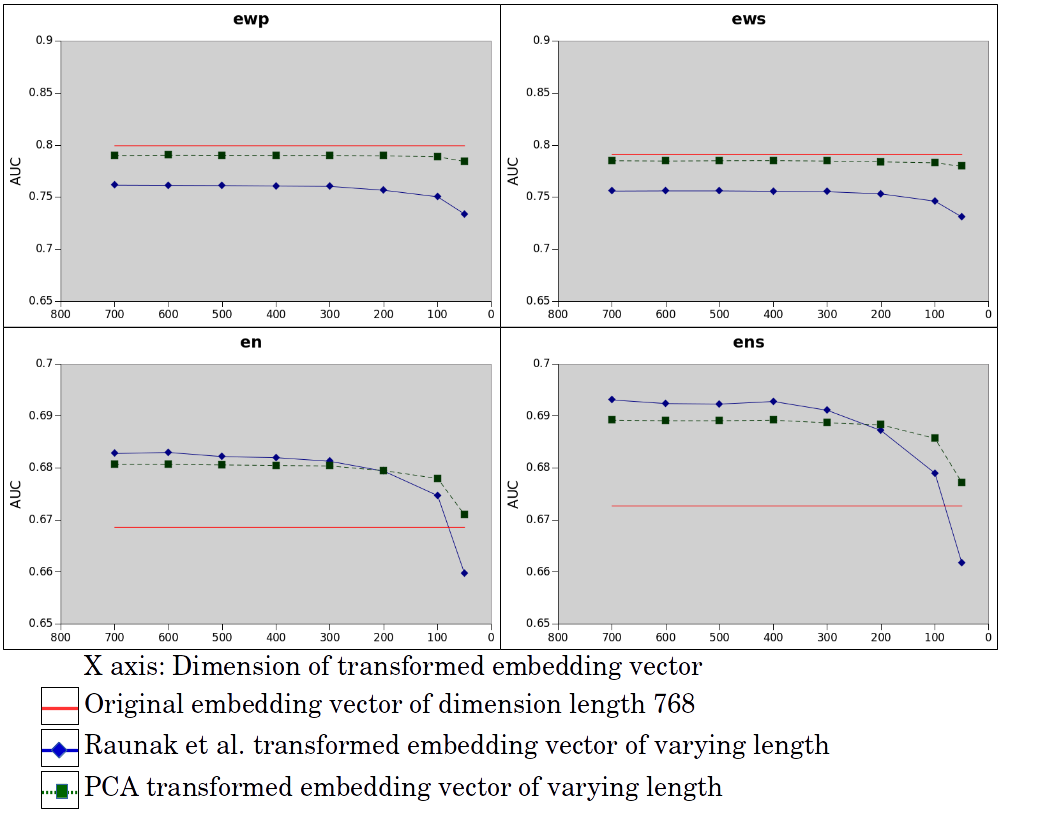
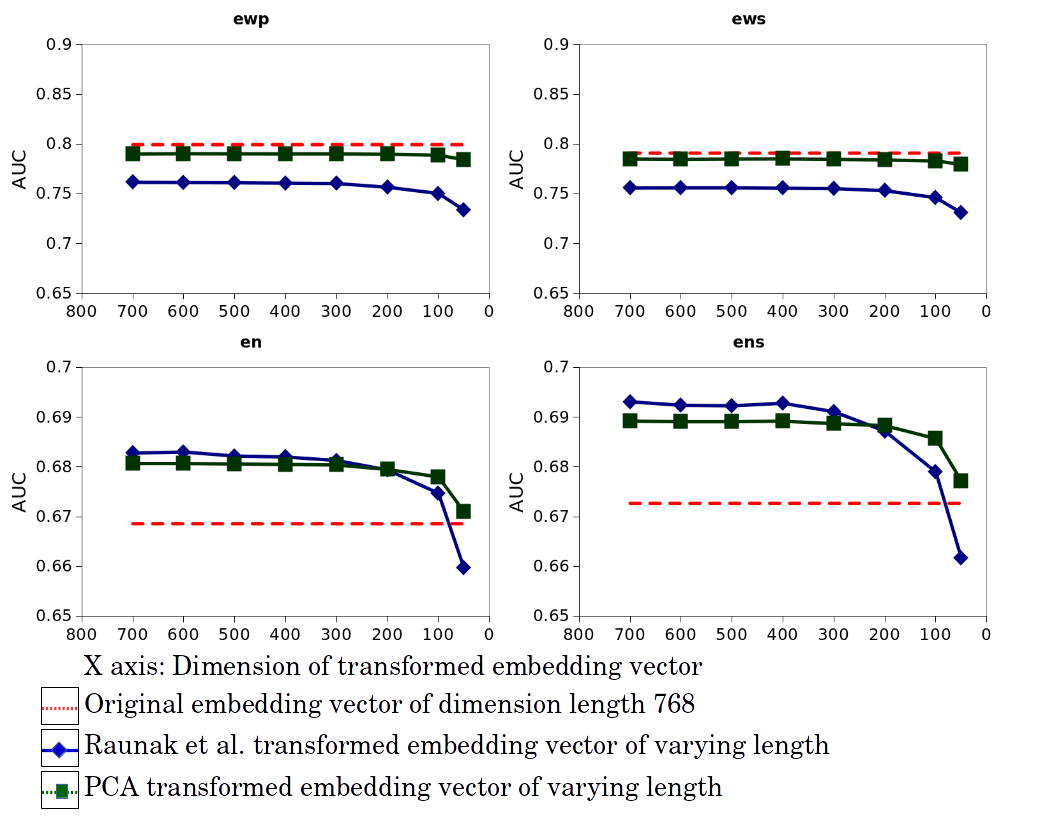
added remaining results and fixed figure 4

diff --git a/evaluation.tex b/evaluation.tex
@@ -1,9 +1,7 @@
-\subsection{Experimental settings} The central theme of our work is to explore an efficient way to make use of embeddings and transformer models to represent passage-length texts. Our experimental setting evaluates to which extent such a passage representations is useful for solving passages clustering in an open-domain IR context. \ld{I would reword this: "We chose sub-topic clustering of passages as our evaluation problem because traditional IR similarity metrics have been shown to be ineffective in modeling the fine-grained similarity between passages from the same broad topic and hence is considered to be a difficult IR problem." - see ticket \url{https://gitlab.cs.unh.edu/trema/papers/cikm2020-subtopic-clustering/issues/4}} However as mentioned before, we train our models to learn query-dependent pairwise distances between passages first, and then use the pairwise distances for clustering. We describe our clustering pipeline in the following:
+\subsection{Experimental settings} The central theme of our work is to explore an efficient way to make use of embeddings and Transformer models to represent passage-length texts. We evaluate in an open-domain IR context, to which extend our approach for sub-topic clustering of passages can capture the fine-grained nuances in sub-topics among passages retrieved for an overarching topic. However as mentioned before, we train our models to learn pairwise distances between passages first, and then use the pairwise distances for clustering. We describe our clustering pipeline in the following:
 \begin{itemize}
-    \item \textbf{Step 1: \ld{I added a few words, and maybe made the name too long, please fix if necessary} Query-dependent binary classification  into same/different} We train our model phrasing the model of query-dependent decision into same/different sections as a binary classification problem. Given a pair of passages $p_1, p_2$  \ld{... and a query...} from an Wikipedia article, we have to decide whether they should share the same section in that article or not. We use the TRECCAR-Train as our training data.
-    \item \textbf{Step 2: Pairwise distances \ld{1 is also pairwise distances, maybe you want to call this ``Supervised Distance Combination Learning'' ?}} 
-    \ld{I don't know what you are trying to say, I suspect you are training a combination of different similarity metrics (a la Step 1). I would phrase this as follows: ``Since we have different methods for estimating a query-independent as well as  query-specific pair-wise similarity metrics (some supervised, some unsupervised like TF-IDF), we learn a model combination.''}
-    Using the trained model from previous step or other unsupervised models, we calculate pairwise distances between all passage pairs which we want to cluster. If a passage embedding model is being trained (e.g., ews or ewp), then a distance function (cosine distance or CATS) is used to generate passage similarity scores between pairs of passage embedding vectors. For CATS, it is trained again for binary classification task using TRECCAR-by1train dataset.
+    \item \textbf{Step 1: Binary classification into same/different sections} First, we train our supervised models to solve a binary classification problem. Given a pair of passages $p_1, p_2$ from an Wikipedia article, the model has to decide whether they should share the same section in that article or not. We use the TRECCAR-Train as our training data.
+    \item \textbf{Step 2: Extract pairwise distances between passage pairs} Using the trained model from previous step or other unsupervised models, we calculate pairwise distances between all passage pairs which we want to cluster. If a passage embedding model is being trained (e.g., ews or ewp) in Step 1, then a distance function (cosine distance or CATS) is used to generate passage similarity scores between pairs of passage embedding vectors. For CATS, it is trained again for binary classification task using TRECCAR-by1train dataset.
     \item \textbf{Step 3: Subtopic clustering} Given a set of passages $P$ about a topic $T$, we have to generate $k$ clusters $c_1 .. c_k$ of passages, in such a way that each cluster $c_i$ coincides with a specific sub-topic of $T$. Using the pre-computed pairwise distances as input, we use Hierarchical Agglomerative clustering with average linkage to obtain clusters of passages from same article.
 \end{itemize}
 
@@ -16,17 +14,17 @@ The training and evaluation phase of the clustering pipeline is depicted in Figu
 \end{figure}
 
 \subsection{Training and evaluation data} 
-We use several parts of a publicly available TREC Complex Answer Retrieval dataset for training and evaluating our models: benchmarkY1-train.v2.0 (trec y1 train), benchmarkY1-test (trec y1 test), benchmarkY2test-auto-manual-qrels (trec y2 test), and train.v2.0 (trec train) \ld{this enumeration needs a bit more explanation}. The dataset consists of a large corpus of text passages extracted from Wikipedia and text book articles \ld{I deleted TQA, not sure if you use the term later}. One of the target task described by the organizers of the CAR challenge  is a passage retrieval task where we have to retrieve relevant passages from the corpus for complex queries. The query set is derived from concatenating section headings of an article with its article title. The automatic benchmark will, for such queries, only consider passages as relevant if they originate from the corresponding section of the article. This relevance information is used to obtain the hierarchical structure of each article in the dataset; these are used as input to our training data generation method depicted in Figure \ref{fig:conv}. \ld{this needs to also be explained in prose} The process produces passage similarity data for training the query-dependent binary classification task and is used in step 1 (and step 2 for CATS) of our subtopic clustering pipeline.
+We use several parts of a publicly available TREC Complex Answer Retrieval dataset \cite{dietz2017trec} for training and evaluating our models: benchmarkY1-train.v2.0 (trec y1 train), benchmarkY1-test (trec y1 test), benchmarkY2test-auto-manual-qrels (trec y2 test), and train.v2.0 (trec train). The dataset consists of a large corpus of text passages extracted from Wikipedia and text book articles. One of the target task described by the organizers of the CAR challenge  is a passage retrieval task where we have to retrieve relevant passages from the corpus for complex queries. The query set is derived from concatenating section headings of an article with its article title. The automatic benchmark will, for such queries, only consider passages as relevant if they originate from the corresponding section of the article. This relevance information is used to obtain the hierarchical structure of each article in the dataset; these are used as input to our training data generation method depicted in Figure \ref{fig:conv}. \ld{this needs to also be explained in prose} The process produces passage similarity data for training the query-dependent binary classification task and is used in step 1 (and step 2 for CATS) of our subtopic clustering pipeline.
 
 %Each part has ground truth information contained in qrels files which inform about relevance of passages to different hierarchical sections of an Wikipedia article. For trec y1 parts, it has two different levels of hierarchical relevance: hierarchical qrels considers each section in Wikipedia articles as different topics and maps relevant passages accordingly. Toplevel qrels does not consider deeper level sections and maps all passages from deeper level sections to the section on the topmost level of the section hierarchy.
 
-\subsubsection{Training data} Using the technique depicted in Figure \ref{fig:conv}, we convert subset of trec train and trec y1 train dataset from TRECCAR to our training sets \textbf{Train-TRECCAR} and \textbf{by1train-TRECCAR} respectively. We also generate two \ld{make clear that the query is separate from the triplet, because earlier you talked about tuples (u,v,w), where one was the query} triplet dataset to fine-tune \ld{I would say a model similar to the one from} Dor et al. version of text embedding model. The dataset \textbf{Train-triplet-psg} contains samples of passage triplets as $(p_a, p_s, p_d)$ where $p_a$ and $p_s$ are similar and $p_d$ is dissimilar according to Train-TRECCAR. \textbf{Train-triplet-sent} is constructed similar to Train-triplet-psg except we take a random sentence from each passage in a triplet instead of the whole passage text. \ld{make sure the math notation is in line with what was used earlier.}
+\subsubsection{Training data} Using the technique depicted in Figure \ref{fig:conv}, we convert subset of trec train and trec y1 train dataset from TRECCAR to our training sets \textbf{Train-TRECCAR} and \textbf{by1train-TRECCAR} respectively. We also generate two triplet dataset to fine-tune text embedding models similar to the model by Dor et al. . The dataset \textbf{Train-triplet-psg} contains samples of passage triplets as $(p_a, p_s, p_d)$ where $p_a$ and $p_s$ are similar and $p_d$ is dissimilar according to Train-TRECCAR. \textbf{Train-triplet-sent} is constructed similar to Train-triplet-psg except we take a random sentence from each passage in a triplet instead of the whole passage text.
 
-\subsubsection{Evaluation data} We evaluate our models on both the query-specific binary classification task and the clustering task. The former task is evaluated on \textbf{Y1 test} and \textbf{Y2 test}, converted from trec y1 test and trec y2 test, similar to \textbf{Train-TRECCAR} \ld{For an outsider it is difficult to follow what the difference is between "Y1 test" and "trec y1 test". Maybe you can simplify the terminology?}. For the clustering task, we use the section-passage relevance information provided in the automatic ground truth of TREC CAR dataset to construct the clustering ground truth of true passage clusters in articles. However, based on topical diversity inside a cluster, we construct two different clustering ground truths:
+\subsubsection{Evaluation data} We evaluate our models on both the query-specific binary classification task and the clustering task. The former task is evaluated on \textbf{Y1 test} and \textbf{Y2 test}, converted from trec y1 test and trec y2 test, similar to \textbf{Train-TRECCAR}. For the clustering task, we use the section-passage relevance information provided in the automatic ground truth of TREC CAR dataset to construct the clustering ground truth of true passage clusters in articles. However, based on topical diversity inside a cluster, we construct two different clustering ground truths:
 
 \begin{itemize}
-    \item \textit{Lenient} We consider all passages under the same top-level section to be a single cluster. For example: passages relevant for \textit{Amur Leopard/Threats}, \textit{Amur Leopard/Threats/Forest degradation}, and \textit{Amur Leopard/Threats/Poaching} are considered part of same \textit{"Threat"} cluster.
-    \item \textit{Hierarchical} We consider passages under different hierarchical sections to be separate clusters. In previous example, we would form three distinct clusters (\textit{"Threats", "Forest degradation",} and \textit{"Poaching"}) for the \textit{"Amur Leopard"} article.
+    \item \textit{Lenient (ln)} We consider all passages under the same top-level section to be a single cluster. For example: passages relevant for \textit{Amur Leopard/Threats}, \textit{Amur Leopard/Threats/Forest degradation}, and \textit{Amur Leopard/Threats/Poaching} are considered part of same \textit{"Threat"} cluster.
+    \item \textit{Hierarchical (hs)} We consider passages under different hierarchical sections to be separate clusters. In previous example, we would form three distinct clusters (\textit{"Threats", "Forest degradation",} and \textit{"Poaching"}) for the \textit{"Amur Leopard"} article.
 \end{itemize}
 
 \subsection{Experimental models} We experiment with the following models:
@@ -36,31 +34,49 @@ We use several parts of a publicly available TREC Complex Answer Retrieval datas
     \begin{itemize}
         \item \textit{en:} BERT-base model with mean-tokens pooling trained on SNLI and MultiNLI dataset.
         \item \textit{ens:} Same as en but first fine-tuned on the AllNLI datasent, then on train set of STS benchmark.
-        \item \textit{ews:} Version of Dor et al. text embeddings which are fine-tuned on triplets generated from Wikipedia sections. However to prevent training data leakage, we fine-tuned the model using sentence triplets generated from Train-TRECCAR (called Train-triplet-sent), instead of the training dataset provided by the authors \ld{if you mean me, than call me "track organizer" of you mean Dor, then explain why you are not using their models (e.g., because their application differs)}.
+        \item \textit{ews:} Version of Dor et al. text embeddings which are fine-tuned on triplets generated from Wikipedia sections. However to prevent training data leakage, we fine-tuned the model using sentence triplets generated from Train-TRECCAR (called Train-triplet-sent), instead of the training dataset provided by the authors.
         \item \textit{ewp:} Same as ews but the model is trained on triples of passages instead of sentences (called Train-triplet-psg) from Train-TRECCAR.
     \end{itemize}
     Each of the models above are used to generate passage embeddings in two ways: \textit{I. } By using the whole passage text as a single long input sequence and \textit{II. } By averaging sentence embeddings generated for each sentence of a passage. 
     \item \textbf{CATS} We train our CATS model discussed in Section \ref{sec:cats}, for each of the passage embedding methods using by1train-TRECCAR dataset. We use the embedding vector of the article title as the as the query-specific context information for CATS, as intended by the CAR track organizers.
-    \item \ld{add LDA, and add tf-idf cosine similarity, and BM25}
+    \item We use three unsupervised baseline methods: bm25, tfidf, and LDA topic model. To calculate similarity score between a pair of passages, \textbf{i. bm25:} we take the average of two BM25 similarity scores calculated using each passage in the pair as query and the other as document. \textbf{ii. tfidf:} we take the cosine similarity score of the TFIDF vectors representing the passages in the pair. \textbf{iii. LDA:} we take the KL-divergence score between the topic distribution of the passages in the pair, estimated using LDA topic model.
 \end{itemize}
 
-We refer to all passage embedding models by the following simple nomenclature: \texttt{EMB-GEN-DIST} where $EMB$ denotes the embedding model used ($en/ens/ews/ewp$), $GEN$ denotes whether we use the whole passage text or individual sentences as input while generating the embeddings ($psg/sent$) and finally $DIST$ denotes which type of distance function we use to obtain the similarity scores between two passage embedding vectors ($cos/CATS$).
+\begin{table}[t]
+\centering
+%\ra{1.3}
+\caption{Training data}
+\label{tab:dat}
+\begin{tabular}{@{}lrr@{}}\toprule
+Training data & Generated from & Used to train \\\midrule
+Train-TRECCAR & trec train & bertc, bertu \\
+by1train-TRECCAR & trec y1 train & e*-(psg/sent)-CATS \\
+Train-triplet-psg & trec train & ewp \\
+Train-triplet-sent & trec train & ews \\
+\bottomrule
+\end{tabular}
+\caption*{e*: ews/ewp/en/ens \\}
+%\vspace{-3ex}
+\end{table}
 
-\subsection{Subtopic clustering} For each article in \textbf{Y1 test} and \textbf{Y2 test}, we cluster all passages from the article using our clustering pipeline discussed before. The clustering results are evaluated using mean Adjusted RAND index \ld{I think we should give the equation of ARI, or at least say that it is precision/F1 on whether two passages were assigned correctly to the same/different subtopics} across all the articles in each dataset. For Y1 test, we evaluate the clusters against both the \textit{lenient} and \textit{hierarchical} clustering ground truth and for Y2 test, we only evaluate on \textit{lenient} ground truth. For each case, we also evaluate two scenarios: the true number of clusters for each article is i) provided ii) not provided, so a fixed cluster number is predetermined. The supervised methods were actually trained on binary classification task, so we also report the binary classification evaluation scores in terms of AUC score (Area under the receiver operating characteristics curve). Please refer to Table \ref{tab:by1} for the evaluation results.
+We refer to all passage embedding models by the following simple nomenclature: \texttt{EMB-GEN-DIST} where $EMB$ denotes the embedding model used ($en/ens/ews/ewp$), $GEN$ denotes whether we use the whole passage text or individual sentences as input while generating the embeddings ($psg/sent$) and finally $DIST$ denotes which type of distance function we use to obtain the similarity scores between two passage embedding vectors ($cos/CATS$). Table \ref{tab:dat} shows the training datasets used to train different models.
+
+\subsection{Subtopic clustering} For each article in \textbf{Y1 test} and \textbf{Y2 test}, we cluster all passages from the article using our clustering pipeline discussed before. The clustering results are evaluated using mean Adjusted RAND index \cite{hubert1985comparing}, which measures the agreement between the resulting cluster with the true cluster from ground truth, across all the articles in each dataset. For evaluation purposes we pretend to know the right number of sections of an article, referred here as $k$. In real-world applications, we find that most articles have a typical number of sections, which we would use to determine $k$. Alternatively, work on Dirichlet processes are an avenue of learning and predicting the right number of subtopics along with the data \cite{griffiths2004hierarchical, blei2011distance}. Based on $k$, we evaluate two scenarios: the true number of clusters for each article is i) provided ($k=$true) ii) not provided, so a fixed cluster number is predetermined (e.g. $k=$6). For each case, we evaluate the clusters against both the \textit{lenient} and \textit{hierarchical} clustering ground truth for Y1 test. For Y2 test, we only evaluate on \textit{lenient} ground truth. The supervised methods were actually trained on binary classification task, so we also report the binary classification evaluation scores in terms of AUC score (Area under the receiver operating characteristics curve). Please refer to Table \ref{tab:by1} for the evaluation results.
 
 \begin{table*}[t]
 \centering
 %\ra{1.3}
-\caption{\ld{I love the table. Can you mark which method is "ours"?}Task performance measured in terms of macro averaged evaluation score and paired ttest with respect to $bertu$ with $\alpha = 0.05$}
+\caption{Task performance measured in terms of macro averaged evaluation score and paired ttest with respect to $bertu$ with $\alpha = 0.05$}
 \label{tab:by1}
 \begin{tabular}{@{}lrrrrrrrrr@{}}\toprule
 & \multicolumn{5}{c}{Y1 test} && \multicolumn{3}{c}{Y2 test}  \\
 \cmidrule(r){2-6}
 \cmidrule(r){8-10}
 %\cmidrule{2-6} 
-Methods & AUC & hq ARI (k=6) & hq ARI (k=true) & ln ARI (k=6) & ln ARI (k=true) && AUC & ARI (k=8) & ARI (k=true) \\\midrule
+Methods & AUC & hs ARI (k=6) & hs ARI (k=true) & ln ARI (k=6) & ln ARI (k=true) && AUC & ARI (k=8) & ARI (k=true) \\\midrule
 bm25 & 0.7109 & 0.0920 & 0.1771 & 0.1227 & 0.1451 && 0.6301 & 0.1571 & 0.1318 \\
-LDA & & & & & && & & \\
+tfidf & 0.6776 & 0.0695 & 0.1145 & 0.0664 & 0.0703 && 0.6082 & 0.0533 & 0.0647 \\
+LDA & 0.4385 & 0.0025 & 0.0108 & 0.0040 & 0.0087 && 0.4618 & 0.0160 & 0.0132 \\
 bertc & 0.7771 & 0.1373 & 0.2300 & 0.1797 & 0.2078 && 0.6920 & 0.2275 & 0.2368 \\ 
 bertu & 0.7778 & 0.1303 & 0.2140 & 0.1789 & 0.1912 && 0.6876 & 0.1824 & 0.1821 \\\midrule
 ews-psg-cos & 0.7910 & 0.1451 & 0.2085 & $\blacktriangle$ 0.2302 & $\blacktriangle$ 0.2397 && $\blacktriangle$ \textbf{0.7194} & $\blacktriangle$ 0.2261 & $\blacktriangle$ 0.2422 \\ 
@@ -82,7 +98,7 @@ ens-sent-CATS & $\blacktriangledown$ 0.7082 & 0.1041 & $\blacktriangledown$ 0.14
 \bottomrule
 \end{tabular}
 \caption*{Significantly higher $\blacktriangle$ or lower $\blacktriangledown$ than $bertu$ according to paired t-test \\
-hq: \ld{why is it hq and not hc? ist is because of hierarchical queries how about hierarchical secions (hs)? }  evaluated against hierarchical clustering ground truth, ln: lenient clustering ground truth\\
+hs: evaluated against hierarchical clustering ground truth, ln: lenient clustering ground truth\\
 k: number of clusters, k=true: original number of clusters in each article}
 %\vspace{-3ex}
 \end{table*}
@@ -94,8 +110,6 @@ k: number of clusters, k=true: original number of clusters in each article}
     \item The CATS variant of $en, ens$ improves remarkably over their cosine similarity versions. In some cases the improvement is over $100$\%. For example: en-psg-CATS improves about $115$\% over en-psg-cos in terms of mean ARI when evaluated against lenient clustering ground truth of Y1 test with fixed number of clusters (column ln ARI(k=6)).
     \item Using the average sentence vector (sent) to represent passages is observed to produce worse outcome when compared to whole passage embedding (psg) for $ewp, ews$. For example: ews-sent-cos performs about $7$\% worse than ews-psg-cos in terms of AUC score for Y1 test. However, in most cases we observe slight performance increase for $en, ens$ when average sentence vector is used.
 \end{itemize}
-
-\ld{awesome findings! I actually like that you formatted it with bullet points.}
 
 \subsubsection{Significance test} We have seen from Table \ref{tab:by1} that our proposed CATS method improves all four passage embedding methods explored here. Now to investigate whether the improvement is statistically significant, we conduct paired ttest between each CATS version of passage embedding method and its cosine version. We choose $\alpha = 0.05$ for this study. For brevity, we consider three different cases: Y1 test with hierarchical and lenient ground truth, and Y2 test, both with true number of clusters provided. We report the obtained p-value from the experiments in Table \ref{tab:sigt}. The results confirm that all improvements due to CATS are statistically significant for Y1 test dataset. Whereas for Y2 test, improvements for $en, ens$ methods are statistically significant.
 
@@ -111,7 +125,7 @@ k: number of clusters, k=true: original number of clusters in each article}
 && \multicolumn{2}{c}{Y1 test} & Y2 test  \\
 \cmidrule(r){3-4}
 \cmidrule(r){5-5}
-Method 1 & Method 2 & hq k=t & ln k=t & k=t \\\midrule
+Method 1 & Method 2 & hs k=t & ln k=t & k=t \\\midrule
 ews-psg-cos & ews-psg-CATS & 0.0386 & 0.0138 & 0.5887 \\ 
 ewp-psg-cos & ewp-psg-CATS & 0.0007 & 0.023 & 0.7462 \\ 
 en-psg-cos & en-psg-CATS & 0.0002 & <0.0001 & 0.0174 \\ 
@@ -122,7 +136,7 @@ en-sent-cos & en-sent-CATS & 0.0364 & <0.0001 & 0.0684 \\
 ens-sent-cos & ens-sent-CATS & 0.0001 & <0.0001 & 0.0016 \\
 \bottomrule
 \end{tabular}
-\caption*{hq: evaluated against hierarchical clustering ground truth, ln: lenient clustering ground truth\\
+\caption*{hs: evaluated against hierarchical clustering ground truth, ln: lenient clustering ground truth\\
 k: number of clusters, k=true: original number of clusters in each article}
 %\vspace{-3ex}
 \end{table}
@@ -140,16 +154,16 @@ One important aspect to note here is that the adjusted RAND index score has non-
 & \multicolumn{2}{c}{Y1 test} & Y2 test  \\
 \cmidrule(r){2-3}
 \cmidrule(r){4-4}
-Combination & hq k=t & ln k=t & k=t \\\midrule
-1. v',w' & 0.0207 & 0.0382 &  \\ 
-2. v',w',(v'-w') & 0.2198 & 0.2523 & \\
-3. u',v',w' & 0.0328 & 0.0415 & \\
-4. u',v',w',(v'-w') & 0.2198 & 0.2690 & \\
-5. u',v',w',(v'-u'),(w'-u') & 0.0359 & 0.0447 & \\
-6. v',w',(v'-u'),(w'-u') & 0.0290 & 0.0434 & \\
-7. v',w',(v'-w'),(v'-u'),(w'-u') & 0.2429 & 0.2795 & \\
-8. (v'-w'),(v'-u'),(w'-u') & 0.2193 & 0.2639 & \\
-9. (v'-u'),(w'-u') & 0.0281 & 0.0469 & \\
+Combination & hs k=t & ln k=t & k=t \\\midrule
+1. v',w' & 0.0207 & 0.0382 & 0.0151 \\ 
+2. v',w',(v'-w') & 0.2198 & 0.2523 & 0.2349 \\
+3. u',v',w' & 0.0328 & 0.0415 & 0.0272 \\
+4. u',v',w',(v'-w') & 0.2198 & 0.2690 & 0.2150 \\
+5. u',v',w',(v'-u'),(w'-u') & 0.0359 & 0.0447 & 0.0241 \\
+6. v',w',(v'-u'),(w'-u') & 0.0290 & 0.0434 & 0.0239 \\
+7. v',w',(v'-w'),(v'-u'),(w'-u') & 0.2429 & 0.2795 & 0.2474 \\
+8. (v'-w'),(v'-u'),(w'-u') & 0.2193 & 0.2639 & 0.2441 \\
+9. (v'-u'),(w'-u') & 0.0281 & 0.0469 & 0.0235 \\
 \textbf{10. u',v',w',(v'-w'),(v'-u'),(w'-u')} & 0.2380 & 0.2772 & 0.2319 \\
 \bottomrule
 \end{tabular}
@@ -192,9 +206,9 @@ The previous example is a case of false negative which is rectified by the CATS 
 It is evident that these two passages share topics such as \textit{"fishing"}, \textit{"sport"}, and consequently influence non-CATS method such as $ewp-psg-cos$ to incorrectly assign high similarity score. However, when we are aware that both these passages are taken from an article titled \textit{"Recreational fishing"}, then other less overt topics become more important in deciding their subtopic similarity. As there are little topical overlap other than the central context, $ewp-psg-cos$ assigns low similarity score for the pair. Indeed these two passages are taken from different subtopics, \textit{"History"} and \textit{"Fish logs"} respectively. 
 
 \subsection{Effect of Post-Processing and Dimensionality Reduction}
-Mu et al. had shown that much of the variance of popular word embedding vectors are explained by only a small subset of vector dimensions. In their study, they develop a simple post-processing technique which made the embeddings more effective by eliminating those dominating embedding dimensions, as opposed to eliminating the weakest dimensions in case of typical dimensionality reduction techniques. According to their findings, their technique can be used to initialize embedding vectors for supervised downstream tasks. However, when used with our best performing CATS variant $q-ewp$, it does not yield any significant improvement.
+Mu et al. \cite{mu2017all} had shown that much of the variance of popular word embedding vectors are explained by only a small subset of vector dimensions. In their study, they develop a simple post-processing technique which made the embeddings more effective by eliminating those dominating embedding dimensions, as opposed to eliminating the weakest dimensions in case of typical dimensionality reduction techniques. According to their findings, their technique can be used to initialize embedding vectors for supervised downstream tasks. However, when used with our best performing CATS variant $q-ewp$, it does not yield any significant improvement.
 
-All passage embeddings used for our evaluation are of length 768. Reducing the dimensionality of embeddings without significantly hurting the performance, benefit memory-constrained downstream applications. Raunak et al. propose a dimensionality reduction technique that combines PCA with Mu et al. post-processing algorithm, suitable for word embeddings. We explore the applicability of their technique to passage embeddings in comparison to simple PCA. Our findings, presented in Figure \ref{fig:dimred}, lead to interesting insights. As expected, for $ewp$ and $ews$, reducing dimensionality using normal PCA degrades performance in terms of AUC score for binary classification task. However, the performance degrades even further when we apply the technique by Raunak et al. On the other hand, for $en$ and $ens$, reduced embedding vectors produce improved results compared to the original vector. More interestingly, the improvement sustains even if the embedding size is reduced to only 100. Our conclusions from this observation are as follows:
+All passage embeddings used for our evaluation are of length 768. Reducing the dimensionality of embeddings without significantly hurting the performance, benefit memory-constrained downstream applications. Raunak et al. \cite{raunak2019effective} propose a dimensionality reduction technique that combines PCA with Mu et al. post-processing algorithm, suitable for word embeddings. We explore the applicability of their technique to passage embeddings in comparison to simple PCA. Our findings, presented in Figure \ref{fig:dimred}, lead to interesting insights. As expected, for $ewp$ and $ews$, reducing dimensionality using normal PCA degrades performance in terms of AUC score for binary classification task. However, the performance degrades even further when we apply the technique by Raunak et al. On the other hand, for $en$ and $ens$, reduced embedding vectors produce improved results compared to the original vector. More interestingly, the improvement sustains even if the embedding size is reduced to only 100. Our conclusions from this observation are as follows:
 \begin{itemize}
     \item The key difference between $en, ens$ and $ewp, ews$ is the incorporation of Wikipedia section information for the later two. The dimensionality reduction technique by Raunak et al. eliminates dominating dimensions similar to Mu et al. and eliminates weakest dimensions using PCA. As our evaluation results show, applying Raunak et al. method hurts the performance much more than a simple PCA dimensionality reduction. This suggests that important Wikipedia hierarchy information is concentrated in dominant dimensions of these passage embeddings and when those dimensions are eliminated, the performance degradation is much severe than simple PCA.
     \item For $en, ens$, dimensionality reduction results in improved performance and the improvement is slightly higher for Raunak et al. This finding aligns with the work of Mu et al. and Raunak et al. with word embeddings. Unlike $ewp, ews$, these embeddings do not have essential information concentrated in specific sets of dimensions and hence do not lose important insights upon removal of dominant or weak dimensions. In fact they benefit from denoising nature of these post-processing techniques.

diff --git a/approach.tex b/approach.tex
@@ -14,18 +14,18 @@ Hence we feel, the problem of subtopic clustering requires a generic solution wh
 
 We focus on Step 1 to develop a suitable pairwise similarity metric between passages.
 
-\subsection{Transformer embeddings} In their Sentence-BERT work, authors generate fixed length embeddings for a given word sequence. Dor et al. \cite{dor2018learning} propose a triplet fine-tuning technique which trains the embeddings to be better suited in predicting similarity of sentence pairs based on their likeliness of sharing same section in an Wikipedia article. Each training example consists of one anchor sentence, one similar sentence which is from same section than the anchor and one dissimilar sentence which is from different section than anchor. Using each of these approaches, we obtain fixed length embeddings for passages using tokenized passages as input token sequence. A straight-forward approach for the subtopic clustering would use cosine similarity between these fixed-length vectors as to quantify the pairwise similarity between passages. The similarity scores are used in  a clustering algorithm to obtain subtopic clusters. Note that, transformer models have a maximum input length. So for longer passages tokens beyond the maximum length are truncated.
+\subsection{Transformer embeddings} In their Sentence-BERT work, authors generate fixed length embeddings for a given word sequence. Dor et al. \cite{dor2018learning} propose a triplet fine-tuning technique which trains the embeddings to be better suited in predicting similarity of sentence pairs based on their likeliness of sharing same section (subtopic) in an Wikipedia article about a topic. Each training example consists of one anchor sentence, one similar sentence which is from same section than the anchor and one dissimilar sentence which is from different section than anchor. Using each of these approaches, we obtain fixed length embeddings for passages using tokenized passages as input token sequence. A straight-forward approach for the subtopic clustering would use cosine similarity between these fixed-length vectors as to quantify the pairwise similarity between passages. The similarity scores are used in  a clustering algorithm to obtain subtopic clusters. Note that, transformer models have a maximum input length. So for longer passages tokens beyond the maximum length are truncated.
 
-Although the triples data and target task proposed by Dor et al. may help detect a sentence pair from from the same subtopic (i.e., same section of Wikipedia), we hypothesize that without certain modifications specific to subtopic clustering, we obtain sub-optimal results. There are several reasons behind our hypothesis: 
+Although the triples data and target task proposed by Dor et al. may help detect a sentence pair from the same subtopic (i.e., same section of Wikipedia), we hypothesize that without certain modifications specific to subtopic clustering, we obtain sub-optimal results. There are several reasons behind our hypothesis: 
 \begin{itemize}
-    \item Natural sentences are shorter than paragraph-sized \ld{I added paragraph-sized, because some IR folks think that passages are sentences} passages and henceforth, it is hard to find sentences with much topical drifts. So there is hardly any ambiguity in deciding the central topic discussed \ld{I don't understand what you mean by article:} in an article. So the target task for sentence-pair similarity is to decide whether the specific topics discussed in each sentences of the pair is associated with the same section or they are distinct enough to be associated with different sections \ld{the section and article terminology would either need to be introduced earlier or we would need to explain this in terms of general terms like subtopics} of an article. For passage-pair however it is much more difficult because constituent sentences in a passage may be of different fine-grained topic.
+    \item Natural sentences are shorter than paragraph-sized passages and henceforth, it is hard to find sentences with much topical drifts. So there is hardly any ambiguity in deciding the central topic discussed in a sentence. So the target task for sentence-pair similarity is to decide whether the specific topics discussed in each sentences of the pair is associated with the same section or they are distinct enough to be associated with different sections of an article. For passage-pair however it is much more difficult because constituent sentences in a passage may be of different fine-grained topic.
     \item Wikipedia articles are organized in hierarchical sections; passages deeper in the hierarchy tend to discuss more specific topics than passages on a higher level. Hence two passages which share the same top-level section but belong to different deeper level sections may provide ambiguous supervision signals if used as training examples. This hierarchical ambiguity in training data generation is not considered in the method of Dor et al. which may result to undertrained model if adapted for subtopic clustering of passages.
     \item As any subtopic clustering is highly query dependent, we hypothesize that an accurate subtopic similarity metric must take the user's query (or other expressions of the information need) into consideration.
 \end{itemize}
 
 We propose the following simple modifications to the previous approaches when applied to subtopic clustering:
 \begin{itemize}
-    \item Due to the reason discussed above, while generating negative \ld{I replace dissimilar with negative, your choice} training-examples for passage triples, we only consider passages which are from a different top-level branches in the hierarchy than the anchor passage. This will provide clear, unambiguous, and distinguishable supervision signal to the model under fine-tuning and help it to quickly learn the desired similarity function. Figure \ref{fig:conv} depicts the training data generation.
+    \item Due to the reason discussed above, while generating negative training-examples for passage triples, we only consider passages which are from a different top-level branches in the hierarchy than the anchor passage. This will provide clear, unambiguous, and distinguishable supervision signal to the model under fine-tuning and help it to quickly learn the desired similarity function. Figure \ref{fig:conv} depicts the training data generation.
     \item We train a query-dependent shallow network to provide pairwise passage similarity scores which are used by subsequent clustering algorithm to generate subtopic clusters of passages. Next we discuss this approach in more detail.
 \end{itemize}{}
 \begin{figure}[h]
@@ -38,7 +38,7 @@ We propose the following simple modifications to the previous approaches when ap
 \subsection{CATS: Context Aware Triamese Similarity network}\label{sec:cats} 
 The similarity between a pair of texts is often subject to the context. In context of \textit{endangered species}, a pair of passages about \textit{Amur leopard} and \textit{Vaquita porpoise} should be considered similar. However this is not the case if the context changes to \textit{bycatch}. In subtopic clustering problems, context plays an important role in deciding whether passages about same broad topic should share the same subtopic cluster or not. Keeping this in mind, we propose CATS, Context Aware Triamese Similarity network, a triamese shallow network which learns a similarity function between a pair of passage embeddings in the context of a third embedding vector that represents the query or context information. For our application, we use the topic title as our contextual information need.
 
-As depicted in Figure \ref{fig:triam}, the general CATS architecture consists of three identical fully connected triamese neural layers ($DL1$), meaning they share the same set of weights. Each of them accepts fixed-length embedding vectors representing the query context and pair of passages respectively ($u,v,w$) \ld{which variable is the query? the sentence? would it help to call them $\vec{q}, \vec{s_1} and \vec{s_2}$ ?}. Due to their triamese nature, they project all three embedding vectors to the same embedding subspace. The projected vectors ($u',v',w'$) and their difference vectors ($(v'-w'),(v'-u'),(w'-u')$) are concatenated. The concatenated output vector is transformed through another fully connected neural layer ($DL2$) which emits a similarity score.
+As depicted in Figure \ref{fig:triam}, the general CATS architecture consists of three identical fully connected triamese neural layers ($DL1$), meaning they share the same set of weights. Each of them accepts fixed-length embedding vectors representing the query context and pair of passages respectively ($q,p_1,p_2$). Due to their triamese nature, they project all three embedding vectors to the same embedding subspace. The projected vectors ($q',p_1',p_2'$) and their difference vectors ($(p_1'-p_2'),(p_1'-q'),(p_2'-q')$) are concatenated. The concatenated output vector is transformed through another fully connected neural layer ($DL2$) which emits a similarity score.
 \begin{figure}[h]
   \centering
   \includegraphics[width=\linewidth]{graphics/triamese.png}
@@ -46,4 +46,4 @@ As depicted in Figure \ref{fig:triam}, the general CATS architecture consists of
   \label{fig:triam}
 \end{figure}
 
-\subsection{Finetuning transformers for sequence pair tasks} Fine-tuning is a crucial step in training Transformer models because this allows the model to be specifically suited for a particular downstream task. In the original BERT work, the BERT model is fine-tuned for a binary classification task with STSB benchmark dataset \ld{citation needed}. In that work BERT model is fine-tuned for next sentence prediction task where given a sentence-pair, the model has to predict whether the second sentence should follow the first sentence. We fine-tune the  \ld{earlier you capitalized Transformer} transformer with a modified task: given a passage-pair, predict whether they should belong to the same subtopic. This modified task setting allows us to use output of the model as the similarity score between the input passages. However, our focus for this work is to explore the benefits of fixed-length passage embeddings and hence use this technique only as a strong baseline against our embedding-based methods.
+\subsection{Finetuning transformers for sequence pair tasks} Fine-tuning is a crucial step in training Transformer models because this allows the model to be specifically suited for a particular downstream task. In the original BERT work \cite{devlin2018bert}, the BERT model is fine-tuned for a binary classification task with STS-B task of GLUE benchmark dataset \cite{wang2018glue}. In that work BERT model is fine-tuned for next sentence prediction task where given a sentence-pair, the model has to predict whether the second sentence should follow the first sentence. We fine-tune BERT with a modified task: given a passage-pair, predict whether they should belong to the same subtopic. This modified task setting allows us to use output of the model as the similarity score between the input passages. However, our focus for this work is to explore the benefits of fixed-length passage embeddings and hence use this technique only as a strong baseline against our embedding-based methods.

diff --git a/conclusion.tex b/conclusion.tex
@@ -1,1 +1,1 @@
-Transformer-based embedding models have been applied successfully for sentence or phrase similarity tasks. On the other hand, to solve difficult IR-centric problems such as subtopic clustering, we require machine understanding of long-range contexts \ld{what is the different between the rest of this sentence and the beginning - are you missing a 'not'? or maybe I am not understanding...} that Transformer models such as BERT can provide. However, several engineering challenges limit the usefulness of these models for longer sequence of texts such as passage or documents. We develop simple yet powerful techniques to adapt Transformer-based embedding models to generate passage embeddings, suitable for capturing subtopic similarity. We also propose CATS, a Triamese neural architecture that models contextual similarity function between passage embedding vectors, with a dependence on the user query. Our exhaustive empirical findings show that our Transformer-based passage embeddings in combination with CATS, outperform strong BERT baseline models and therefore can be used as a simple and better solution to the subtopic clustering problems.
+We require machine understanding of long-range contexts to solve difficult IR-centric problems such as subtopic clustering. Empirical results have shown that Transformer-based embedding models capture rich context information in short text sequences such as sentences and have been applied successfully for sentence or phrase similarity tasks. However, several engineering challenges limit the usefulness of these models for longer sequence of texts such as passage or documents. We develop simple yet effective techniques to adapt Transformer-based embedding models to generate passage embeddings, suitable for capturing subtopic similarity. We also propose CATS, a Triamese neural architecture that models contextual similarity function between passage embedding vectors, with a dependence on the user query. Our exhaustive empirical findings show that our Transformer-based passage embeddings in combination with CATS, outperform pure BERT baseline models and therefore provides better solution to the subtopic clustering problems.
